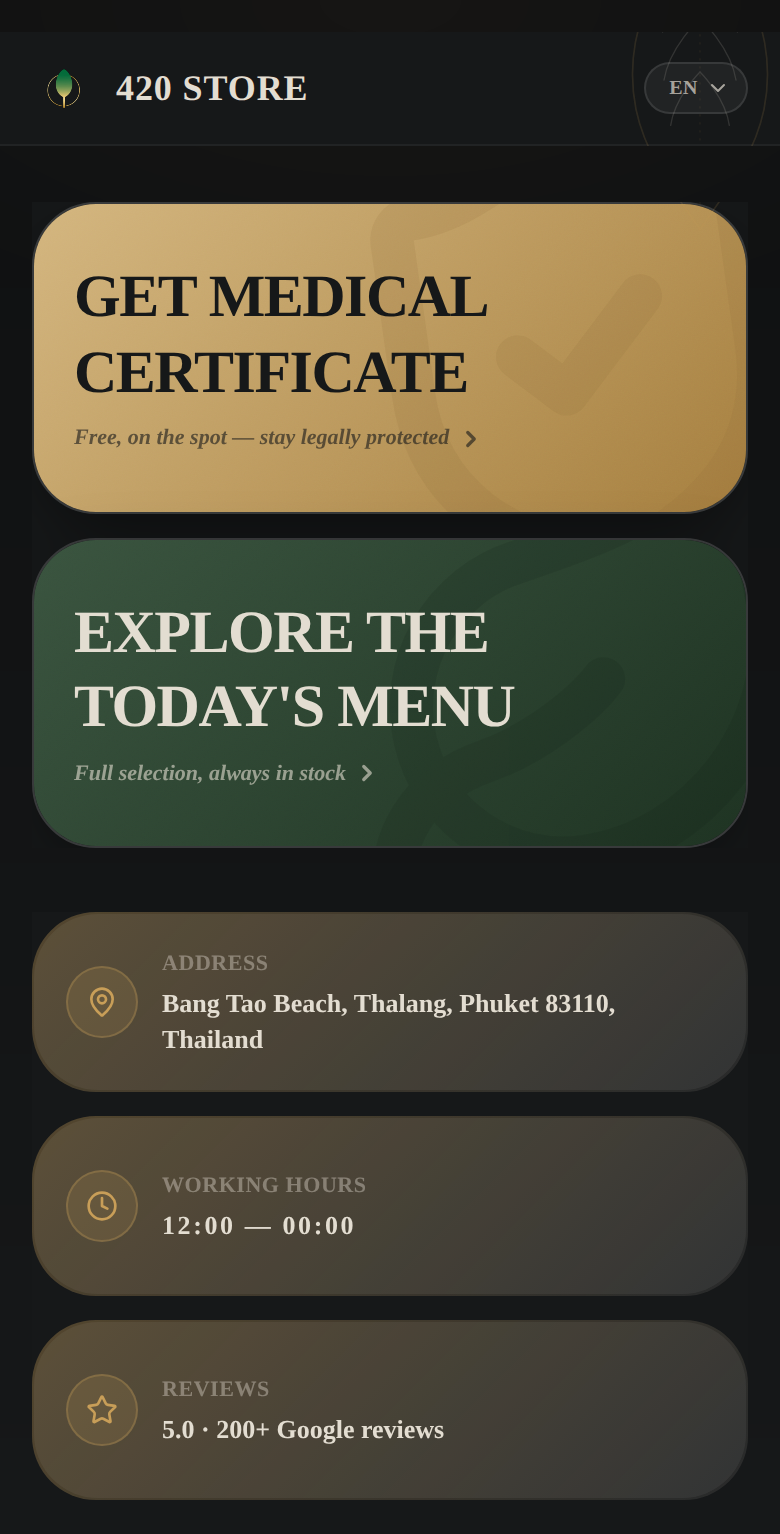
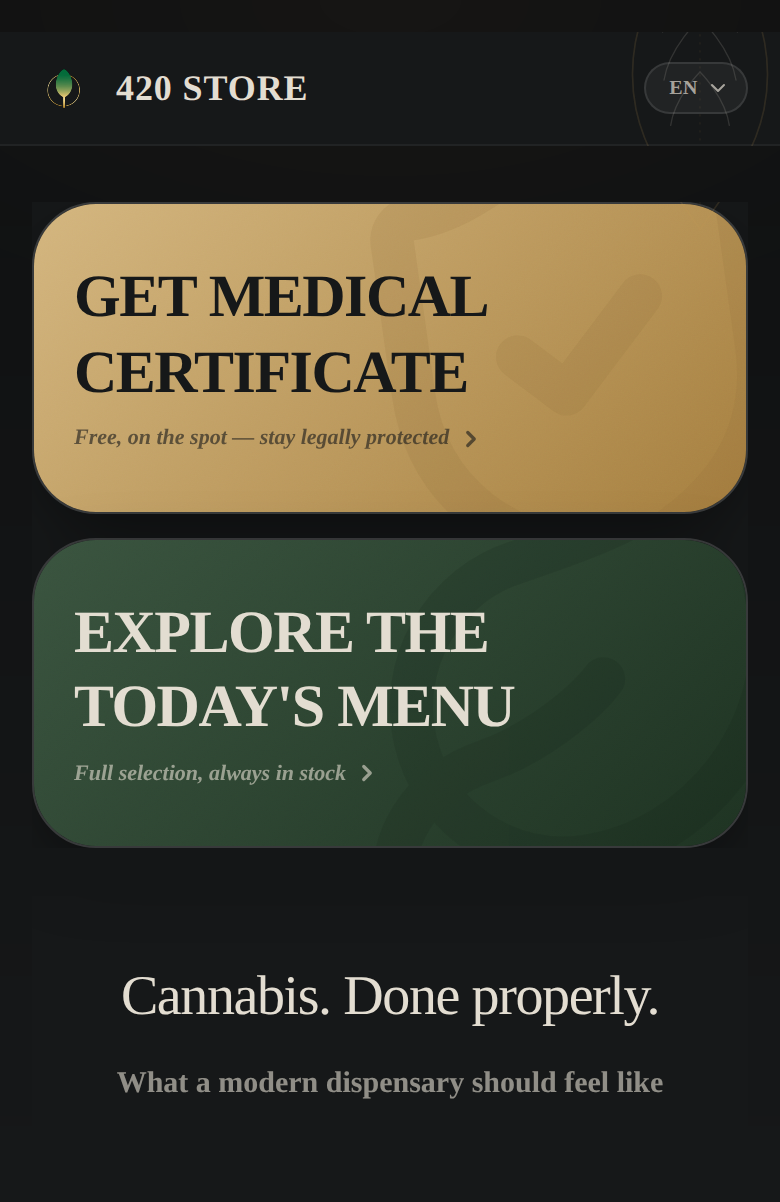
Rework customer-preview screenshot to hero cards + tagline only
Drop the rating/address/hours row from the "HERE'S WHAT YOUR CUSTOMER
SEES" mockup and recompose it from the header, both hero cards (left
alignment unchanged), and the "Cannabis. Done properly." tagline instead.
Same device frame, tilt, and entrance/sweep animation as before, just
resized to the new composite's aspect ratio.

diff --git a/src/components/partners/DeviceMockup.tsx b/src/components/partners/DeviceMockup.tsx
@@ -3,9 +3,10 @@ import * as React from "react"
 import Image from "next/image"
 import { motion } from "framer-motion"
 
-// Real screenshot of buds.digital (hero cards + address/hours/reviews row),
-// captured at the iPhone 13/14 logical viewport (390x844, 2x export) and
-// wrapped in a minimal device frame. Recapture and swap the PNG in
+// Composited screenshot of buds.digital (header + hero cards + the
+// "Cannabis. Done properly." tagline), assembled from the live homepage at
+// the iPhone 13/14 logical viewport (390 wide, 2x export) and wrapped in a
+// minimal device frame. Recapture and swap the PNG in
 // public/images/partners/customer-view.png whenever the live design changes.
 export function DeviceMockup() {
   // Drives the light-sweep off the frame's own viewport entry instead of a
@@ -27,9 +28,9 @@ export function DeviceMockup() {
         <div className="relative rounded-[1.8rem] overflow-hidden">
           <Image
             src="/images/partners/customer-view.png"
-            alt="buds.digital home screen — hero, address, hours and reviews"
+            alt="buds.digital home screen — hero cards and tagline"
             width={390}
-            height={767}
+            height={601}
             className="w-full h-auto block"
             sizes="220px"
             priority
